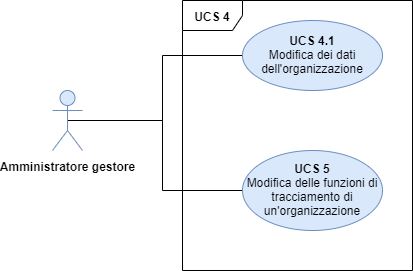
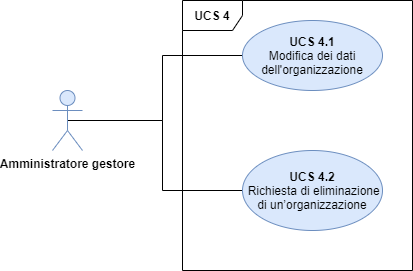
risolta issue #121

diff --git a/DocumentazioneEsterna/AnalisiDeiRequisiti/Sezioni/UseCase/UCS4.tex b/DocumentazioneEsterna/AnalisiDeiRequisiti/Sezioni/UseCase/UCS4.tex
@@ -1,11 +1,5 @@
 \subsubsection{Panoramica UCS4}
 
-\begin{figure}[h]
-	\centering	
-	\includegraphics[scale=0.53]{Sezioni/UseCase/Immagini/PanoramicaUCS4.png}
-	\caption{Panoramica UCS 4}
-\end{figure}
-
 \subsubsection{UCS 4 - Modifica dei parametri dell'organizzazione}%kite level
 
 \begin{figure}[h]
@@ -15,169 +9,167 @@
 \end{figure}
 
 \begin{itemize}
-    \item \textbf{Attori primari:} Amministratore gestore
-    \item \textbf{Precondizione:} L'amministratore dispone di almeno un'\glo{organizzazione}.
-    \item \textbf{Postcondizione:} L'amministratore ha modificato i parametri desiderati dell'\glo{organizzazione} e le modifiche sono state salvate nel sistema.
-    \item \textbf{Scenario principale:} L'amministratore deve scegliere l'\glo{organizzazione} che vuole modificare, selezionare la funzionalità di modifica dell'\glo{organizzazione} e quindi procedere con il cambiamento dei parametri.
-    \item \textbf{Scenario alternativo:} L'amministratore non vuole più apportare modifiche all'\glo{organizzazione}, pertanto procederà con l'annullamento dell'apporto di modifiche [UCS 4.3].
-    \item \textbf{Flusso di eventi:}
-    \begin{enumerate}
-        \item L'amministratore seleziona un'\glo{organizzazione} [UCS 3];
-        \item L'amministratore seleziona la funzionalità di modifica dell'\glo{organizzazione};
-        \item L'amministratore ha la possibilità di modificare i campi delle informazioni dell'\glo{organizzazione} [UCS 4.1];
-        \item L'amministratore ha la possibilità di modificare il \glo{perimetro} e i \glo{luoghi} di \glo{tracciamento} dell'\glo{organizzazione} [UCS 5];
-        \item L'amministratore seleziona la funzionalità per il salvataggio delle modifiche apportate.
-    \end{enumerate}
-    \item \textbf{Estensioni:}
-    \begin{enumerate}
-        \item UCS 4.3 - Annullamento modifiche ai parametri dell'organizzazione.
-    \end{enumerate}
+	\item \textbf{Attori primari:} Amministratore gestore
+	\item \textbf{Precondizione:} L'amministratore dispone di almeno un'\glo{organizzazione}.
+	\item \textbf{Postcondizione:} L'amministratore ha modificato i parametri desiderati dell'\glo{organizzazione} e le modifiche sono state salvate nel sistema.
+	\item \textbf{Scenario principale:} L'amministratore deve scegliere l'\glo{organizzazione} che vuole modificare, selezionare la funzionalità di modifica dell'\glo{organizzazione} e quindi procedere con il cambiamento dei parametri.
+	\item \textbf{Scenario alternativo:} L'amministratore non vuole più apportare modifiche all'\glo{organizzazione}, pertanto procederà con l'annullamento dell'apporto di modifiche [UCS 4.3].
+	\item \textbf{Flusso di eventi:}
+	\begin{enumerate}
+		\item L'amministratore seleziona un'\glo{organizzazione} [UCS 3];
+		\item L'amministratore seleziona la funzionalità di modifica dell'\glo{organizzazione};
+		\item L'amministratore ha la possibilità di modificare i campi delle informazioni dell'\glo{organizzazione} [UCS 4.1];
+		\item L'amministratore ha la possibilità di modificare il \glo{perimetro} e i \glo{luoghi} di \glo{tracciamento} dell'\glo{organizzazione} [UCS 5];
+		\item L'amministratore seleziona la funzionalità per il salvataggio delle modifiche apportate.
+	\end{enumerate}
+	\item \textbf{Estensioni:}
+	\begin{enumerate}
+		\item UCS 4.3 - Annullamento modifiche ai parametri dell'organizzazione.
+	\end{enumerate}
 \end{itemize}
 \newpage
 \subsubsection{UCS 4.1 - Modifica dei dati dell'organizzazione}%sea level
 \begin{figure}[h]
 	\centering
-    \includegraphics[scale=0.53]{Sezioni/UseCase/Immagini/UCS4.1.png}
-    \caption{UCS 4.1 - Modifica dei dati dell'\glo{organizzazione}}
+	\includegraphics[scale=0.53]{Sezioni/UseCase/Immagini/UCS4.1.png}
+	\caption{UCS 4.1 - Modifica dei dati dell'\glo{organizzazione}}
 \end{figure}
 \begin{itemize}
-    \item \textbf{Attori primari:} Amministratore gestore
-    \item \textbf{Precondizione:} L'amministratore si trova nella sezione di modifica dei parametri dell'\glo{organizzazione}.
-    \item \textbf{Postcondizione:} L'amministratore ha modificato i dati desiderati all'interno dell'\glo{organizzazione}.
-    \item \textbf{Scenario principale:} L'amministratore modifica i dati dell'\glo{organizzazione} desiderati, ovvero può:
-    \begin{itemize}
-        \item modificare il nome dell'\glo{organizzazione} [UCS 4.1.1];
-        \item modificare l'immagine dell'\glo{organizzazione} [UCS 4.1.2];
-        \item modificare la descrizione dell'\glo{organizzazione} [UCS 4.1.3];
-        \item modificare l'indirizzo dell'\glo{organizzazione} [UCS 4.1.4];
-        \item modificare l'indirizzo IP del server aziendale [UCS 4.1.5].
-    \end{itemize}
+	\item \textbf{Attori primari:} Amministratore gestore
+	\item \textbf{Precondizione:} L'amministratore si trova nella sezione di modifica dei parametri dell'\glo{organizzazione}.
+	\item \textbf{Postcondizione:} L'amministratore ha modificato i dati desiderati all'interno dell'\glo{organizzazione}.
+	\item \textbf{Scenario principale:} L'amministratore modifica i dati dell'\glo{organizzazione} desiderati, ovvero può:
+	\begin{itemize}
+		\item modificare il nome dell'\glo{organizzazione} [UCS 4.1.1];
+		\item modificare l'immagine dell'\glo{organizzazione} [UCS 4.1.2];
+		\item modificare la descrizione dell'\glo{organizzazione} [UCS 4.1.3];
+		\item modificare l'indirizzo dell'\glo{organizzazione} [UCS 4.1.4];
+		\item modificare l'indirizzo IP del server aziendale [UCS 4.1.5].
+	\end{itemize}
 \end{itemize}
 
 \subsubsection{UCS 4.1.1 - Modifica del nome dell'organizzazione}%fish level
 \begin{itemize}
-\item \textbf{Attori primari:} Amministratore gestore
-\item \textbf{Precondizione:} L'amministratore gestore si trova nella sezione di modifica dei parametri dell'\glo{organizzazione}.
-\item \textbf{Postcondizione:} L'amministratore ha inserito un nome per l'\glo{organizzazione} che rispetti i vincoli imposti e non sia già presente nel sistema.
-\item \textbf{Scenario principale:} Modifica del nome dell'organizzazione.
-\item \textbf{Scenario alternativo 1:} L'amministratore inserisce un nome per l'\glo{organizzazione} che non rispetta i vincoli imposti. Verrà visualizzato un messaggio d'errore [UCS 10.4.2].
-\item \textbf{Scenario alternativo 2:} L'amministratore inserisce un nome per l'\glo{organizzazione} che è già presente nel sistema. Verrà visualizzato un messaggio d'errore [UCS 10.4.3].
-\item \textbf{Estensioni:}
-\begin{enumerate}
-    \item UCS 10.4.2 - Il nome dell'organizzazione inserito non rispetta i vincoli;
-    \item UCS 10.4.3 - Il nome dell'organizzazione inserito è già presente nel sistema.
-\end{enumerate}
+	\item \textbf{Attori primari:} Amministratore gestore
+	\item \textbf{Precondizione:} L'amministratore gestore si trova nella sezione di modifica dei parametri dell'\glo{organizzazione}.
+	\item \textbf{Postcondizione:} L'amministratore ha inserito un nome per l'\glo{organizzazione} che rispetti i vincoli imposti e non sia già presente nel sistema.
+	\item \textbf{Scenario alternativo 1:} L'amministratore inserisce un nome per l'\glo{organizzazione} che non rispetta i vincoli imposti. Verrà visualizzato un messaggio d'errore [UCS 10.4.2].
+	\item \textbf{Scenario alternativo 2:} L'amministratore inserisce un nome per l'\glo{organizzazione} che è già presente nel sistema. Verrà visualizzato un messaggio d'errore [UCS 10.4.3].
+	\item \textbf{Estensioni:}
+	\begin{enumerate}
+		\item UCS 10.4.2 - Il nome dell'organizzazione inserito non rispetta i vincoli;
+		\item UCS 10.4.3 - Il nome dell'organizzazione inserito è già presente nel sistema.
+	\end{enumerate}
 \end{itemize}
 
 \subsubsection{UCS 4.1.2 - Modifica dell'immagine dell'organizzazione}%fish level
 \begin{itemize}
-\item \textbf{Attori primari:} Amministratore gestore
-\item \textbf{Precondizione:} L'amministratore gestore si trova nella sezione di modifica dei parametri dell'\glo{organizzazione}.
-\item \textbf{Postcondizione:} L'amministratore ha selezionato un'immagine valida per l'\glo{organizzazione}.
-\item \textbf{Scenario principale:} Modifica dell'immagine dell'organizzazione.
-\item \textbf{Scenario alternativo:} L'amministratore seleziona un'immagine per l'\glo{organizzazione} che non rispetta i vincoli imposti. Verrà visualizzato un messaggio d'errore [UCS 10.4.4].
-\item \textbf{Flusso di eventi:}
-\begin{enumerate}
-    \item L'amministratore seleziona la funzionalità di scelta dell'immagine;
-    \item Seleziona l'immagine da impostare come immagine dell'\glo{organizzazione};
-    \item Conferma la scelta.
-\end{enumerate}
-\item \textbf{Estensioni:}
-\begin{enumerate}
-    \item UCS 10.4.4 - L'immagine dell'organizzazione scelta non rispetta i vincoli imposti.
-\end{enumerate}
+	\item \textbf{Attori primari:} Amministratore gestore
+	\item \textbf{Precondizione:} L'amministratore gestore si trova nella sezione di modifica dei parametri dell'\glo{organizzazione}.
+	\item \textbf{Postcondizione:} L'amministratore ha selezionato un'immagine valida per l'\glo{organizzazione}.
+	\item \textbf{Scenario alternativo:} L'amministratore seleziona un'immagine per l'\glo{organizzazione} che non rispetta i vincoli imposti. Verrà visualizzato un messaggio d'errore [UCS 10.4.4].
+	\item \textbf{Flusso di eventi:}
+	\begin{enumerate}
+		\item L'amministratore seleziona la funzionalità di scelta dell'immagine;
+		\item Seleziona l'immagine da impostare come immagine dell'\glo{organizzazione};
+		\item Conferma la scelta.
+	\end{enumerate}
+	\item \textbf{Estensioni:}
+	\begin{enumerate}
+		\item UCS 10.4.4 - L'immagine dell'organizzazione scelta non rispetta i vincoli imposti.
+	\end{enumerate}
 \end{itemize}
 
 \subsubsection{UCS 4.1.3 - Modifica della descrizione dell'organizzazione}%fish level
 \begin{itemize}
-\item \textbf{Attori primari:} Amministratore gestore
-\item \textbf{Precondizione:} L'amministratore gestore si trova nella sezione di modifica dei parametri dell'\glo{organizzazione}.
-\item \textbf{Postcondizione:} L'amministratore ha inserito una descrizione che rispetti i vincoli imposti.
-\item \textbf{Scenario principale:} Modifica della descrizione dell'organizzazione.
-\item \textbf{Scenario alternativo:} L'amministratore inserisce una descrizione dell'\glo{organizzazione} che non rispetta i vincoli imposti. Verrà visualizzato un messaggio d'errore [UCS 10.4.5].
-\item \textbf{Estensioni:}
-\begin{enumerate}
-    \item UCS 10.4.5 - La descrizione dell'organizzazione inserita non rispetta i vincoli.
-\end{enumerate}
+	\item \textbf{Attori primari:} Amministratore gestore
+	\item \textbf{Precondizione:} L'amministratore gestore si trova nella sezione di modifica dei parametri dell'\glo{organizzazione}.
+	\item \textbf{Postcondizione:} L'amministratore ha inserito una descrizione che rispetti i vincoli imposti.
+	\item \textbf{Scenario alternativo:} L'amministratore inserisce una descrizione dell'\glo{organizzazione} che non rispetta i vincoli imposti. Verrà visualizzato un messaggio d'errore [UCS 10.4.5].
+	\item \textbf{Estensioni:}
+	\begin{enumerate}
+		\item UCS 10.4.5 - La descrizione dell'organizzazione inserita non rispetta i vincoli.
+	\end{enumerate}
 \end{itemize}
 
 \subsubsection{UCS 4.1.4 - Modifica dell'indirizzo dell'organizzazione}%fish level
 
 \begin{itemize}
-\item \textbf{Attori primari:} Amministratore gestore
-\item \textbf{Precondizione:} L'amministratore gestore si trova nella sezione di modifica dei parametri dell'\glo{organizzazione}.
-\item \textbf{Postcondizione:} L'amministratore ha inserito un indirizzo valido che rispetti i vincoli imposti.
-\item \textbf{Scenario principale:} Modifica dell'indirizzo dell'organizzazione.
-\item \textbf{Scenario alternativo:} L'amministratore inserisce un indirizzo dell'\glo{organizzazione} che non rispetta i vincoli imposti. Verrà visualizzato un messaggio d'errore [UCS 10.4.6].
-\item \textbf{Flusso di eventi:}
-\begin{enumerate}
-    \item L'amministratore inserisce una parola tra: via/viale/piazza;
-    \item L'amministratore inserisce il nome della via/viale/piazza dell'azienda;
-    \item L'amministratore inserisce il numero civico;
-    \item Se serve, l'amministratore inserisce la lettera che identifica l'azienda dagli altri edifici che condividono lo stesso numero civico con essa.
-\end{enumerate}
-\item \textbf{Estensioni:}
-\begin{itemize}
-    \item UCS 10.4.6 - L'indirizzo inserito non rispetta i vincoli imposti.
-\end{itemize}
+	\item \textbf{Attori primari:} Amministratore gestore
+	\item \textbf{Precondizione:} L'amministratore gestore si trova nella sezione di modifica dei parametri dell'\glo{organizzazione}.
+	\item \textbf{Postcondizione:} L'amministratore ha inserito un indirizzo valido che rispetti i vincoli imposti.
+	\item \textbf{Scenario alternativo:} L'amministratore inserisce un indirizzo dell'\glo{organizzazione} che non rispetta i vincoli imposti. Verrà visualizzato un messaggio d'errore [UCS 10.4.6].
+	\item \textbf{Flusso di eventi:}
+	\begin{enumerate}
+		\item L'amministratore inserisce lo stato;
+		\item L'amministratore inserisce la città;
+		\item L'amministratore inserisce il codice postale;
+		\item L'amministratore inserisce una parola tra: via/viale/piazza;
+		\item L'amministratore inserisce il nome della via/viale/piazza dell'azienda;
+		\item L'amministratore inserisce il numero civico;
+		\item Se serve, l'amministratore inserisce la lettera che identifica l'azienda dagli altri edifici che condividono lo stesso numero civico con essa.
+	\end{enumerate}
+	\item \textbf{Estensioni:}
+	\begin{itemize}
+		\item UCS 10.4.6 - L'indirizzo inserito non rispetta i vincoli imposti.
+	\end{itemize}
 \end{itemize}
 
 \subsubsection{UCS 4.1.5 - Modifica dell'indirizzo IP del server aziendale}
 \begin{itemize}
-\item \textbf{Attori primari:} Amministratore gestore
-\item \textbf{Precondizione:} L'amministratore gestore si trova nella sezione di modifica dei parametri dell'\glo{organizzazione}.
-\item \textbf{Postcondizione:} L'amministratore ha inserito un \glo{indirizzo IP} valido.
-\item \textbf{Scenario principale:} Modifica dell'indirizzo IP del server aziendale.
-\item \textbf{Scenario alternativo:} L'amministratore inserisce un \glo{indirizzo IP} che non rappresenta un server LDAP. Verrà visualizzato un messaggio d'errore [UCS 10.4.7].
-\item \textbf{Flusso di eventi:}
-\begin{enumerate}
-    \item L'amministratore inserisce il nuovo \glo{indirizzo IP}.
-\end{enumerate}
-\item \textbf{Estensioni:}
-\begin{itemize}
-    \item UCS 10.4.7 - L'indirizzo IP inserito non rappresenta un server LDAP.
-\end{itemize}
+	\item \textbf{Attori primari:} Amministratore gestore
+	\item \textbf{Precondizione:} L'amministratore gestore si trova nella sezione di modifica dei parametri dell'\glo{organizzazione}.
+	\item \textbf{Postcondizione:} L'amministratore ha inserito un \glo{indirizzo IP} valido.
+	\item \textbf{Scenario alternativo:} L'amministratore inserisce un \glo{indirizzo IP} che non rappresenta un server LDAP. Verrà visualizzato un messaggio d'errore [UCS 10.4.7].
+	\item \textbf{Flusso di eventi:}
+	\begin{enumerate}
+		\item L'amministratore inserisce il nuovo \glo{indirizzo IP}.
+	\end{enumerate}
+	\item \textbf{Estensioni:}
+	\begin{itemize}
+		\item UCS 10.4.7 - L'indirizzo IP inserito non rappresenta un server LDAP.
+	\end{itemize}
 \end{itemize}
 
 
 
 \subsubsection{UCS 4.2 - Richiesta di eliminazione di un'organizzazione}%sea level
 \begin{itemize}
-\item \textbf{Attori primari:} Amministratore proprietario
-\item \textbf{Precondizione:} L'amministratore si trova nella sezione di modifica dei parametri dell'\glo{organizzazione}.
-\item \textbf{Postcondizione:} L'amministratore ha inviato con successo la richiesta di eliminazione dell'\glo{organizzazione}.
-\item \textbf{Scenario principale:} L'amministratore spiegherà il motivo per cui vuole eliminare l'\glo{organizzazione} e quindi confermerà l'invio della richiesta.
-\item \textbf{Flusso di eventi:}
-\begin{enumerate}
-    \item L'amministratore seleziona la funzionalità di richiesta di eliminazione dell'\glo{organizzazione};
-    \item L'amministratore inserisce la motivazione che lo ha spinto a richiedere l'eliminazione dell'\glo{organizzazione} [UCS 4.2.1];
-    \item L'amministratore seleziona la funzionalità di conferma dell'invio della richiesta di eliminazione dell'\glo{organizzazione}.
-\end{enumerate}
-\begin{itemize}
-    \item UCS 4.2.1 - Motivazione della richiesta dell'eliminazione di un'organizzazione.
-\end{itemize}
+	\item \textbf{Attori primari:} Amministratore proprietario
+	\item \textbf{Precondizione:} L'amministratore si trova nella sezione di modifica dei parametri dell'\glo{organizzazione}.
+	\item \textbf{Postcondizione:} L'amministratore ha inviato con successo la richiesta di eliminazione dell'\glo{organizzazione}.
+	\item \textbf{Scenario principale:} L'amministratore spiegherà il motivo per cui vuole eliminare l'\glo{organizzazione} e quindi confermerà l'invio della richiesta.
+	\item \textbf{Flusso di eventi:}
+	\begin{enumerate}
+		\item L'amministratore seleziona la funzionalità di richiesta di eliminazione dell'\glo{organizzazione};
+		\item L'amministratore inserisce la motivazione che lo ha spinto a richiedere l'eliminazione dell'\glo{organizzazione} [UCS 4.2.1];
+		\item L'amministratore seleziona la funzionalità di conferma dell'invio della richiesta di eliminazione dell'\glo{organizzazione}.
+	\end{enumerate}
+	\begin{itemize}
+		\item UCS 4.2.1 - Motivazione della richiesta dell'eliminazione di un'organizzazione.
+	\end{itemize}
 \end{itemize}
 
 \subsubsection{UCS 4.2.1 - Motivazione della richiesta dell'eliminazione di un'organizzazione}%sea level
 \begin{itemize}
-\item \textbf{Attori primari:} Amministratore proprietario
-\item \textbf{Precondizione:} L'amministratore si trova nella sezione di modifica dei parametri dell'\glo{organizzazione}.
-\item \textbf{Postcondizione:} L'amministratore ha inserito la motivazione della richiesta di eliminazione dell'\glo{organizzazione}.
-\item \textbf{Scenario principale:} L'amministratore spiegherà il motivo per cui vuole eliminare l'\glo{organizzazione}.
+	\item \textbf{Attori primari:} Amministratore proprietario
+	\item \textbf{Precondizione:} L'amministratore si trova nella sezione di modifica dei parametri dell'\glo{organizzazione}.
+	\item \textbf{Postcondizione:} L'amministratore ha inserito la motivazione della richiesta di eliminazione dell'\glo{organizzazione}.
+	\item \textbf{Scenario principale:} L'amministratore spiegherà il motivo per cui vuole eliminare l'\glo{organizzazione}.
 \end{itemize}
 
 \subsubsection{UCS 4.3 - Annullamento modifiche ai parametri dell'organizzazione}%sea level
 \begin{itemize}
-\item \textbf{Attori primari:} Amministratore gestore
-\item \textbf{Precondizione:} L'amministratore gestore si trova nella sezione di modifica dei parametri dell'\glo{organizzazione}.
-\item \textbf{Postcondizione:} L'amministratore ha annullato le modifiche ai parametri dell'\glo{organizzazione}.
-\item \textbf{Scenario principale:} L'amministratore procederà ad annullare le modifiche ai parametri dell'\glo{organizzazione} che sta apportando.
-\item \textbf{Flusso di eventi:}
-\begin{enumerate}
-    \item L'amministratore seleziona la funzionalità per annullare le modifiche e tornare alla sezione di gestione dell'\glo{organizzazione}.
-\end{enumerate}
-\item \textbf{Inclusioni:}
-\begin{enumerate}
-    \item UCS 10.4.1 - Visualizzazione del messaggio di conferma di annullamento modifiche.
-\end{enumerate}
+	\item \textbf{Attori primari:} Amministratore gestore
+	\item \textbf{Precondizione:} L'amministratore gestore si trova nella sezione di modifica dei parametri dell'\glo{organizzazione}.
+	\item \textbf{Postcondizione:} L'amministratore ha annullato le modifiche ai parametri dell'\glo{organizzazione}.
+	\item \textbf{Scenario principale:} L'amministratore procederà ad annullare le modifiche ai parametri dell'\glo{organizzazione} che sta apportando.
+	\item \textbf{Flusso di eventi:}
+	\begin{enumerate}
+		\item L'amministratore seleziona la funzionalità per annullare le modifiche e tornare alla sezione di gestione dell'\glo{organizzazione}.
+	\end{enumerate}
+	\item \textbf{Inclusioni:}
+	\begin{enumerate}
+		\item UCS 10.4.1 - Visualizzazione del messaggio di conferma di annullamento modifiche.
+	\end{enumerate}
 \end{itemize}
